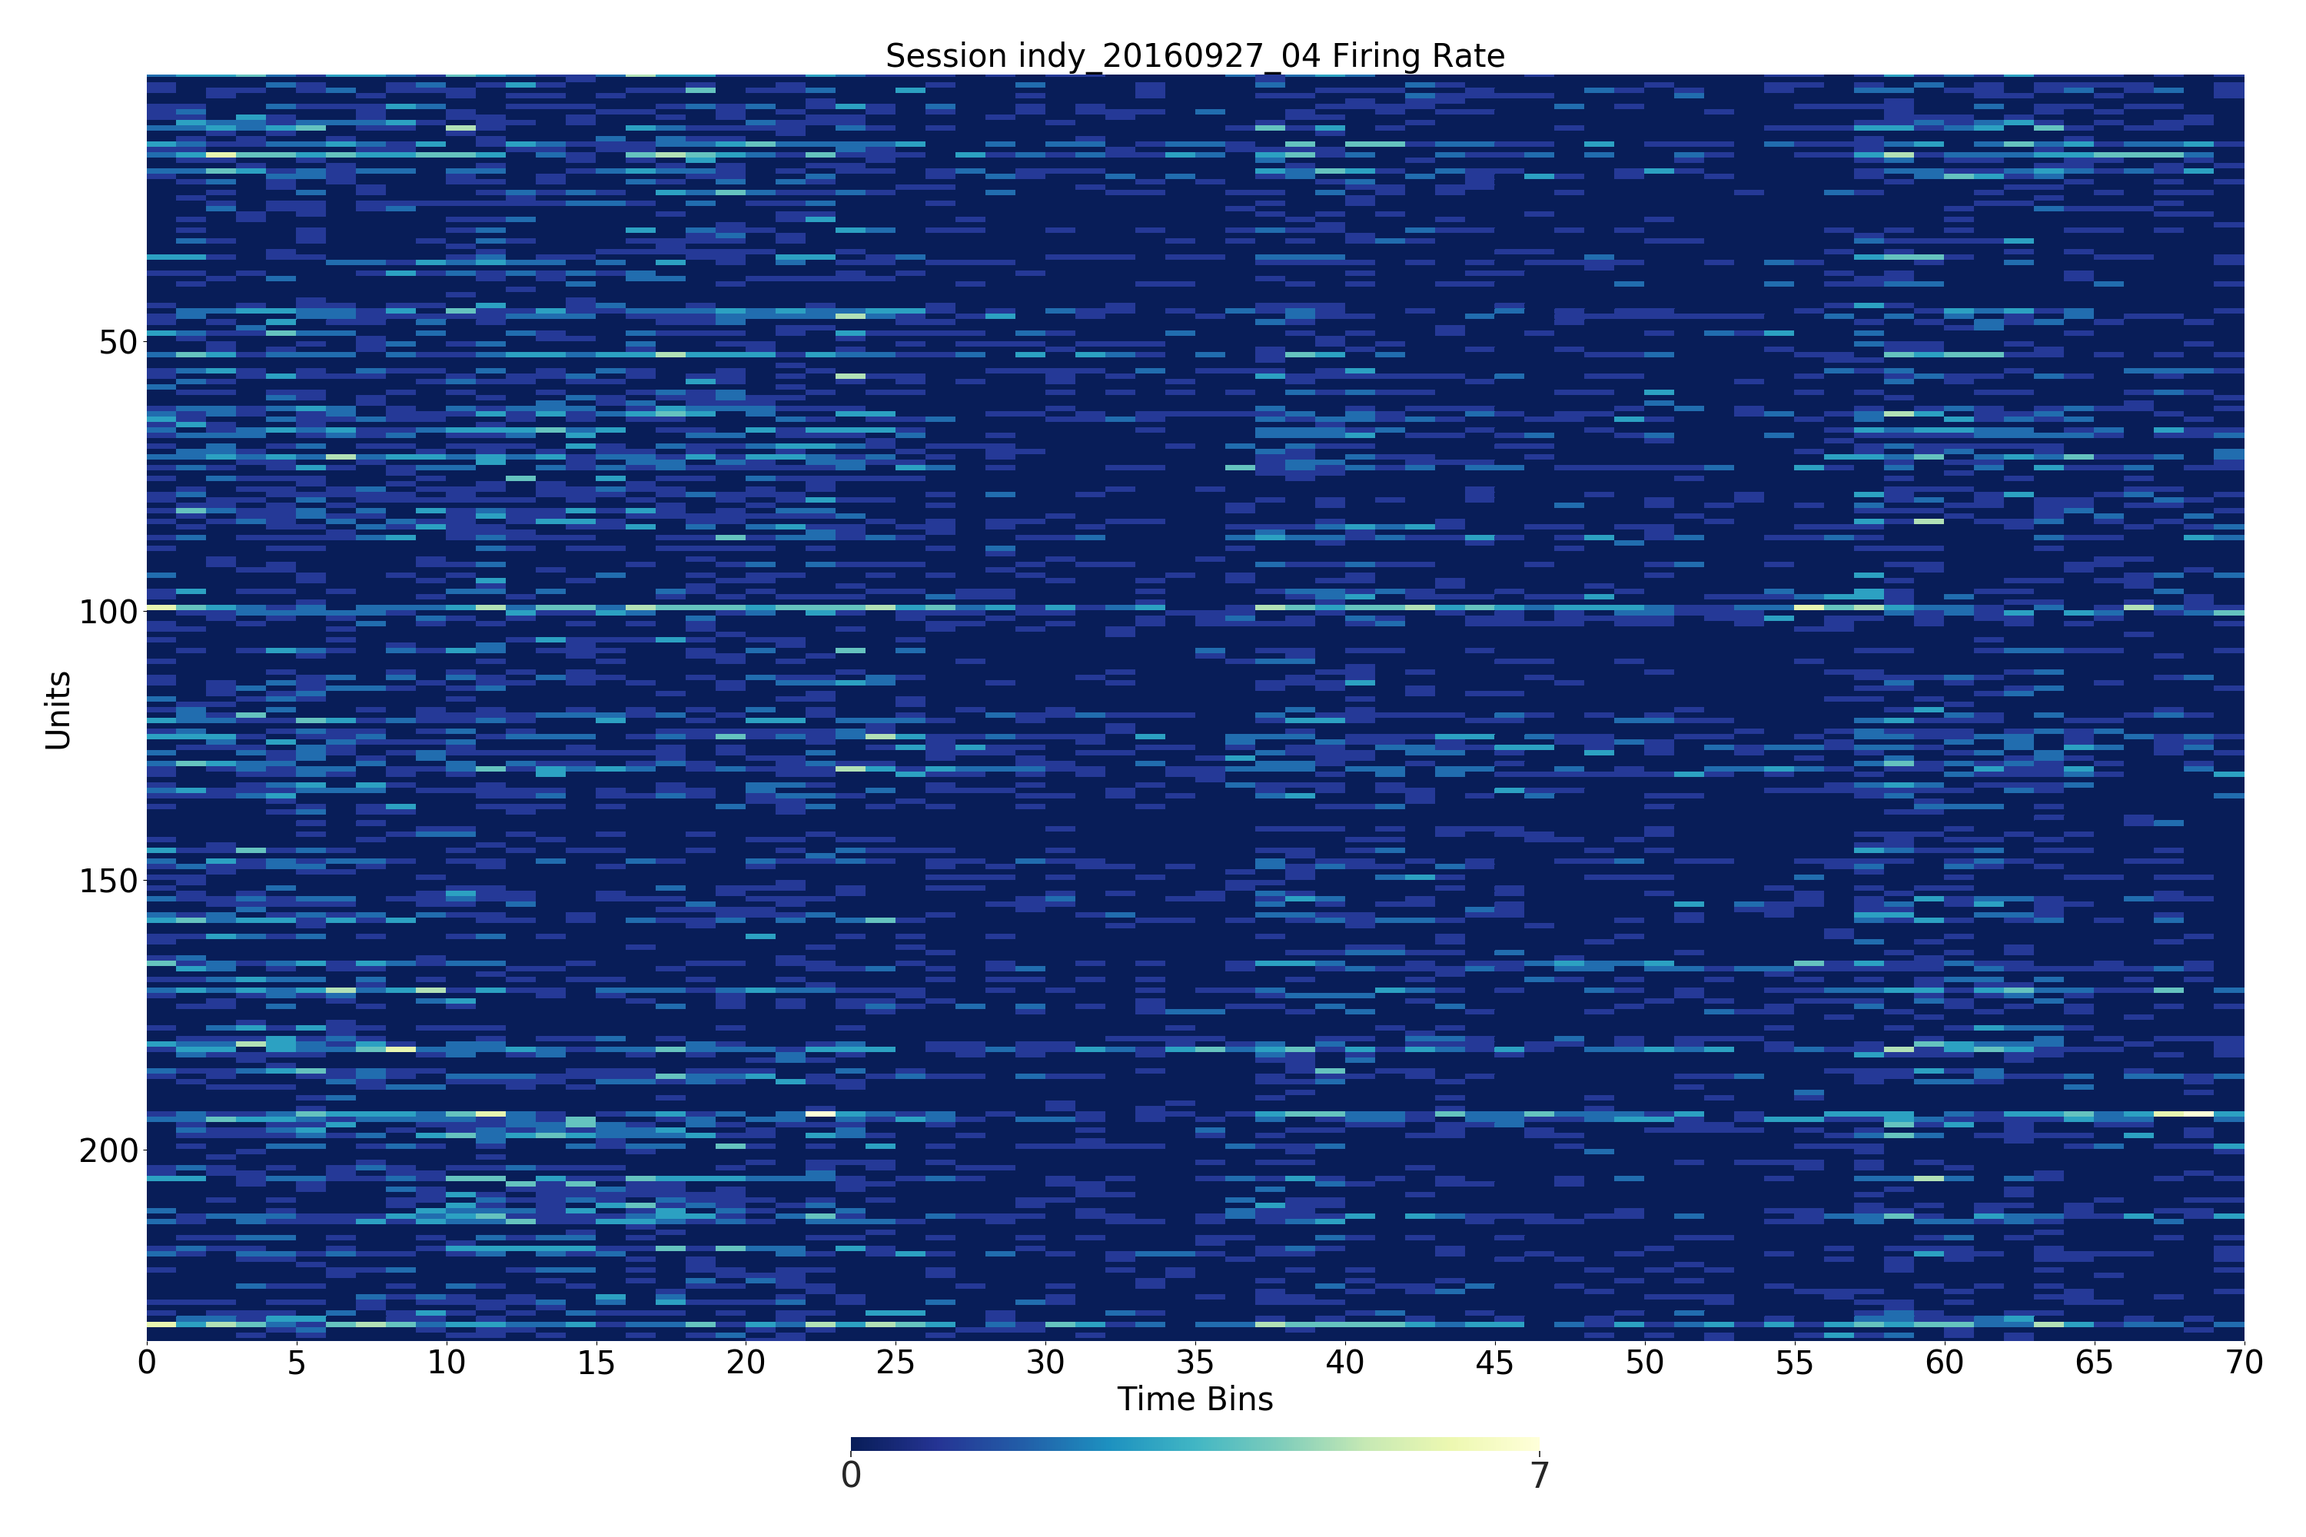
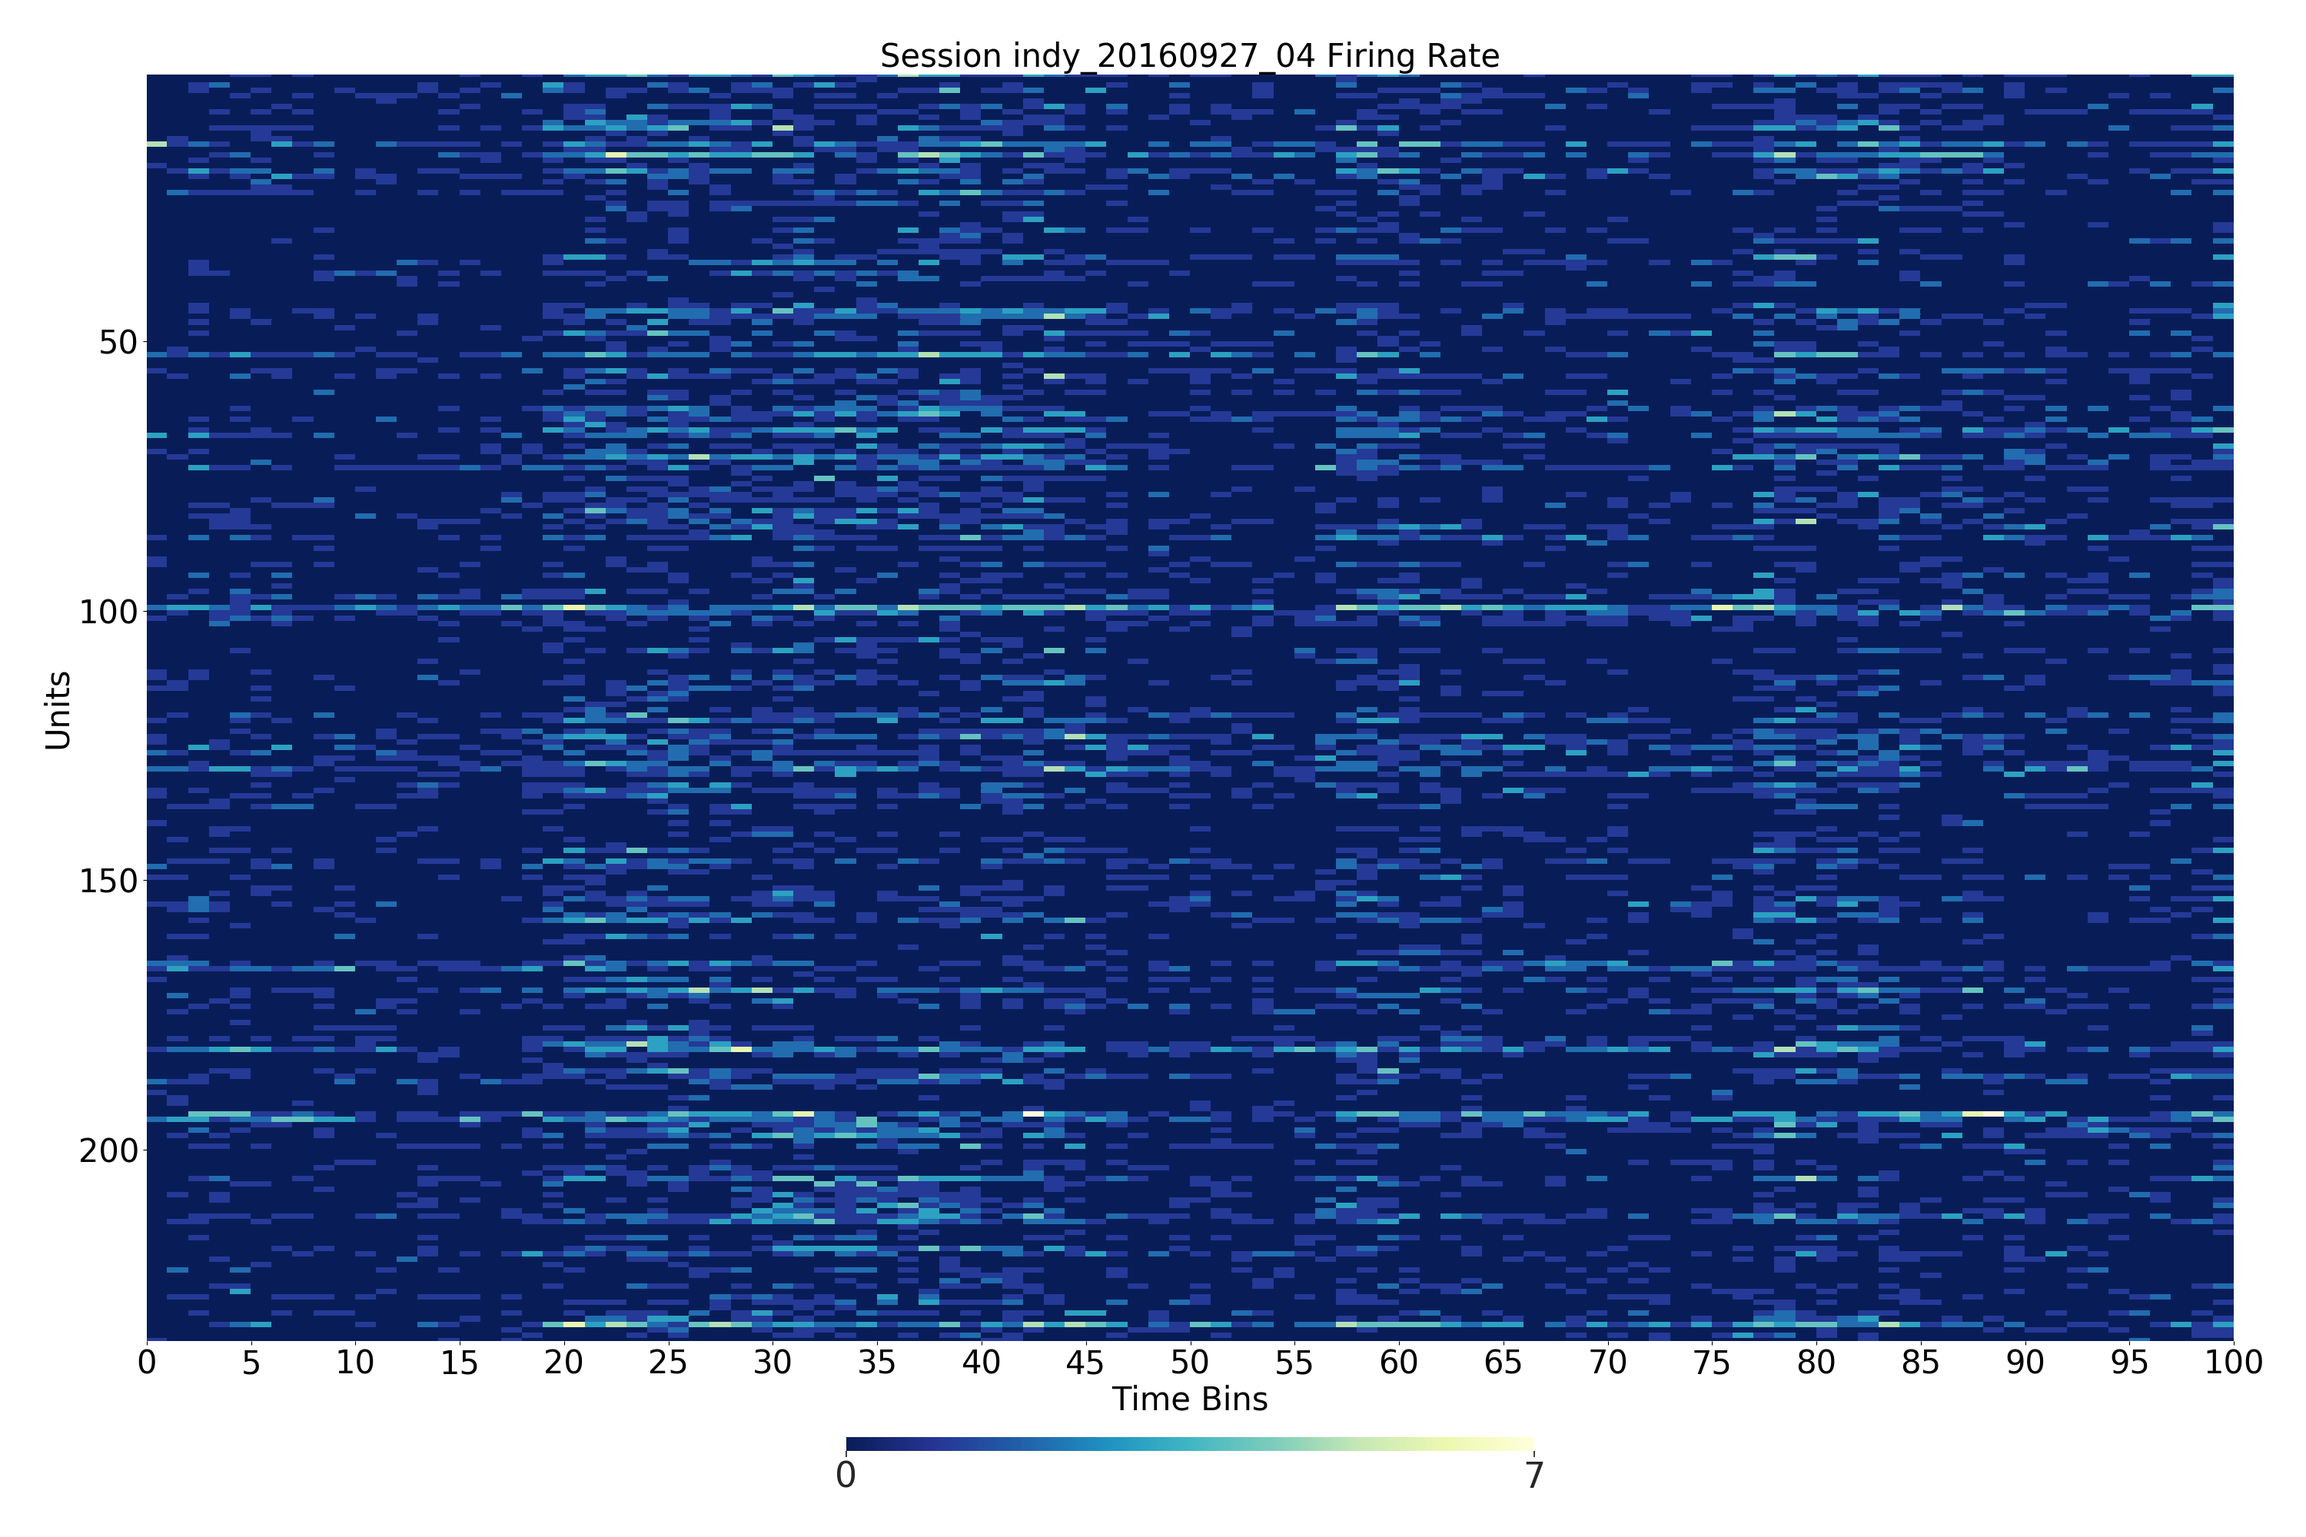
thesis

Changed region(s): [[0.062, 0.031, 0.992, 0.93]]

diff --git a/Python_code/Pytorch/layer_norm_illustration.py b/Python_code/Pytorch/layer_norm_illustration.py
@@ -1,0 +1,184 @@
+# https://medium.com/@omkar.nallagoni/activation-functions-with-derivative-and-python-code-sigmoid-vs-tanh-vs-relu-44d23915c1f4
+
+import torch
+from torch.autograd import Variable
+import torch.nn.functional as F
+import torch.utils.data as Data
+from torch.utils.data import Dataset, DataLoader
+# Figures
+import imageio
+import matplotlib.pyplot as plot
+import matplotlib.pyplot as plt
+import matplotlib.ticker as ticker
+from matplotlib import rc
+# rc('font',**{'family':'sans-serif','sans-serif':['Helvetica']})
+## for Palatino and other serif fonts use:
+#rc('font',**{'family':'serif','serif':['Palatino']})
+# rc('text', usetex=True)
+
+
+# Data Processing
+import pandas as pd
+import json
+import math
+import numpy as np
+from numpy import linalg as LA
+import h5py
+from tqdm import tqdm_notebook as tqdm
+from tqdm import trange
+from sklearn import datasets, svm, metrics
+# Regression Problem Evaluation Methods
+from sklearn.metrics import mean_squared_error, r2_score
+from scipy.stats import pearsonr
+# Read/Write file
+import os
+import shutil
+
+CWD_origin=os.getcwd()
+
+layer_norm_illustration = os.path.join(CWD_origin, 'layer_norm_illustration')
+if not os.path.exists(layer_norm_illustration):
+    os.mkdir(layer_norm_illustration)
+
+
+import seaborn as sns
+
+my_fontsize = 30
+my_width = 16
+my_height = 9
+
+def sigmoid(x):
+    s=1/(1+np.exp(-x))
+    ds=s*(1-s)  
+    return s,ds
+
+def tanh(x):
+    t=(np.exp(x)-np.exp(-x))/(np.exp(x)+np.exp(-x))
+    dt=1-t**2
+    return t,dt
+
+
+
+z=np.arange(-6,6,0.01)
+tanh(z)[0].size,tanh(z)[1].size
+sigmoid(z)
+
+# Setup centered axes
+fig, ax = plt.subplots(figsize=(my_width, my_height))
+my_fontsize = 30
+plt.rcParams['xtick.labelsize'] = my_fontsize
+plt.rcParams['ytick.labelsize'] = my_fontsize
+ax.set_xticks([-6,-4,-2,0,2,4,6])
+ax.set_yticks([-1,1])
+
+ax.spines['left'].set_position('center')
+ax.spines['bottom'].set_position('center')
+ax.spines['right'].set_color('none')
+ax.spines['top'].set_color('none')
+ax.xaxis.set_ticks_position('bottom')
+ax.yaxis.set_ticks_position('left')
+
+# Create and show plot
+ax.plot(z,tanh(z)[0], color='blue', linewidth=3, label="tanh(x)")
+# ax.plot(z,tanh(z)[1], color="#9621E2", linewidth=3, label="derivative")
+
+ax.plot(z,sigmoid(z)[0], color='green', linewidth=3, label="sigmoid(x)")
+# ax.plot(z,sigmoid(z)[1], color="#9621E2", linewidth=3, label="derivative")
+
+ax.legend(loc="upper left", frameon=True, fontsize=my_fontsize)
+
+
+plt.tight_layout()
+plt.savefig(layer_norm_illustration+'/'+'sigmoid_and_tanh.png')
+
+plt.cla()
+plt.clf()
+fig.clear()
+
+
+# Setup centered axes
+fig, ax = plt.subplots(figsize=(my_width, my_height))
+
+plt.rcParams['xtick.labelsize'] = my_fontsize
+plt.rcParams['ytick.labelsize'] = my_fontsize
+ax.set_xticks([-6,-4,-2,0,2,4,6])
+ax.set_yticks([1])
+ax.set_ylim([0,1.1])
+
+ax.spines['left'].set_position('center')
+# ax.spines['bottom'].set_position('center')
+ax.spines['right'].set_color('none')
+ax.spines['top'].set_color('none')
+ax.xaxis.set_ticks_position('bottom')
+ax.yaxis.set_ticks_position('left')
+
+# Create and show plot
+
+ax.plot(z,tanh(z)[1], color="blue", linewidth=3, label=r'$\frac{d}{dx}$ tanh(x)')
+
+ax.plot(z,sigmoid(z)[1], color="green", linewidth=3, label=r'$\frac{d}{dx}$ sigmoid(x)')
+
+ax.legend(loc="upper left", frameon=True, fontsize=my_fontsize)
+
+
+
+plt.tight_layout()
+plt.savefig(layer_norm_illustration+'/'+'derivative_sigmoid_and_tanh.png')
+
+
+plt.cla()
+plt.clf()
+fig.clear()
+
+
+# torch.normal( mean, std, [size] )
+input_1 = torch.normal( 7, 1, [1,256] )
+input_2 = torch.normal( 0, 10, [1,256])
+
+m_1 = torch.nn.LayerNorm(input_1.size(), elementwise_affine=False)
+m_2 = torch.nn.LayerNorm(input_2.size(), elementwise_affine=False)
+
+output_1 = m_1(input_1)
+output_2 = m_2(input_2)
+
+input_1=input_1.numpy()
+output_1=output_1.numpy()
+input_2=input_2.numpy()
+output_2=output_2.numpy()
+
+bins = [i for i in np.arange( -10, 10, 0.2 )]
+
+fig=plt.figure(figsize=(my_width,my_height))
+plt.rcParams['xtick.labelsize'] = my_fontsize
+plt.rcParams['ytick.labelsize'] = my_fontsize
+plt.hist(input_1[0,:], bins=bins, color='blue', alpha=0.5, label='Mean:7, STD:1')
+plt.hist(input_2[0,:], bins=bins, color='green', alpha=0.5,label='Mean:0, STD:10')
+
+plt.xlabel('x-axis', fontsize=my_fontsize)
+plt.xticks([-10,-8,-6,-4,-2,0,2,4,6,8,10])
+plt.yticks([])
+plt.legend(loc="upper left", frameon=True, fontsize=my_fontsize)
+plt.tight_layout()
+plt.savefig( layer_norm_illustration+'/'+ 'activation_histogram_before.png')
+
+
+plt.cla()
+plt.clf()
+fig.clear()
+
+fig=plt.figure(figsize=(my_width,my_height))
+plt.rcParams['xtick.labelsize'] = my_fontsize
+plt.rcParams['ytick.labelsize'] = my_fontsize
+plt.hist(output_1[0,:], bins=bins, color='blue', alpha=0.5, label='Mean: 0, STD: 1')
+plt.hist(output_2[0,:], bins=bins, color='green', alpha=0.5,label='Mean: 0, STD: 1')
+
+plt.xlabel('x-axis', fontsize=my_fontsize)
+plt.xticks([-10,-8,-6,-4,-2,0,2,4,6,8,10])
+plt.yticks([])
+plt.legend(loc="upper left", frameon=True, fontsize=my_fontsize)
+plt.tight_layout()
+plt.savefig( layer_norm_illustration+'/'+ 'activation_histogram_after.png')
+
+plt.cla()
+plt.clf()
+fig.clear()

diff --git a/Python_code/Pytorch/Plotting_Firing_Rate_Heatmap.py b/Python_code/Pytorch/Plotting_Firing_Rate_Heatmap.py
@@ -308,7 +308,7 @@ testing_y_6 = testing_y_6.float()
 shutil.rmtree(Firing_Rate_Visualization)
 
 # Start plotting
-reduce_time_bin = 70
+reduce_time_bin = 50
 my_fontsize = 30
 my_plot_width = 30
 my_plot_height = 20
@@ -332,7 +332,7 @@ plt.figure(figsize=(my_plot_width, my_plot_height))
 plt.title( 'Session ' + session_name + ' Firing Rate', fontsize=30, color="black")
 # plt.title('test')
 sns.set(font_scale=3)
-data = torch.transpose( testing_x[reduce_time_bin:reduce_time_bin*2,:], 0, 1)
+data = torch.transpose( testing_x[reduce_time_bin:reduce_time_bin*3,:], 0, 1)
 
 # Eliminate empty units
 valid_rows=[]
@@ -372,13 +372,12 @@ plt.close()
 
 plt.title( 'Session ' + session_name + ' Firing Rate', fontsize=30, color="black")
 sns.set(font_scale=3)
-
 f ,ax = plt.subplots(4,1, gridspec_kw={'height_ratios': [12, 1, 1, 1],  "hspace":0.2 ,"left":0.1, "right":0.9, "top":0.95, "bottom":0.05}, constrained_layout=True , figsize=(my_plot_width, my_plot_height*1.2))
 
-cbar_kws={"orientation": "horizontal", "shrink": 0.5, "aspect":50,"use_gridspec":"True", "fraction":0.01 , "pad":0.03, 'ticks' : [ torch.min(data), 4 ]}
+cbar_kws={"orientation": "horizontal", "shrink": 0.2, "aspect":20,"use_gridspec":"True", "fraction":0.01 , "pad":0.03, 'ticks' : [ torch.min(data), 4 ]}
 sns.heatmap( data=data, vmax=4 ,xticklabels=False, yticklabels=True, cbar_kws=cbar_kws, cmap='YlGnBu_r', ax=ax[0]) # important, not ax[0] = sns.heatmap(...)
 # ax[0].set_xticklabels(ax[0].get_xmajorticklabels(), fontsize = my_fontsize, rotation=0)
-ax[0].set_title('Firing Rate from Session '+ session_name, fontsize=my_fontsize)
+ax[0].set_title('Firing rate from session '+ session_name, fontsize=my_fontsize)
 ax[0].set_yticklabels(ax[0].get_ymajorticklabels(), fontsize = my_fontsize, rotation=0)
 
 # ax[0].xaxis.set_major_locator(ticker.MultipleLocator(5))
@@ -393,32 +392,32 @@ ax[0].set_ylabel('Units', fontsize=my_fontsize, color="black")
 
 
 ax[1].set_title('Position', fontsize=my_fontsize)
-ax[1].plot( testing_y_1[reduce_time_bin:reduce_time_bin*2], 'b', linewidth=3, label='x-axis', alpha=0.8 )
-ax[1].plot( testing_y_2[reduce_time_bin:reduce_time_bin*2], 'g', linewidth=3, label='y-axis', alpha=0.8 )
+ax[1].plot( testing_y_1[reduce_time_bin:reduce_time_bin*3], 'b', linewidth=3, label='x-axis', alpha=0.8 )
+ax[1].plot( testing_y_2[reduce_time_bin:reduce_time_bin*3], 'g', linewidth=3, label='y-axis', alpha=0.8 )
 ax[1].set_ylabel('mm', fontsize=my_fontsize, rotation=90)
 ax[1].get_xaxis().set_ticks([])
 ax[1].legend(loc='upper right', fontsize=my_fontsize*0.5)
-ax[1].set_xlim([ 0, len( testing_y_2[reduce_time_bin:reduce_time_bin*2] ) ])
+ax[1].set_xlim([ 0, len( testing_y_2[reduce_time_bin:reduce_time_bin*3] ) ])
 
 
 ax[2].set_title('Velocity', fontsize=my_fontsize)
-ax[2].plot( testing_y_3[reduce_time_bin:reduce_time_bin*2], 'b', linewidth=3, label='x-axis', alpha=0.8 )
-ax[2].plot( testing_y_4[reduce_time_bin:reduce_time_bin*2], 'g', linewidth=3, label='y-axis', alpha=0.8 )
+ax[2].plot( testing_y_3[reduce_time_bin:reduce_time_bin*3], 'b', linewidth=3, label='x-axis', alpha=0.8 )
+ax[2].plot( testing_y_4[reduce_time_bin:reduce_time_bin*3], 'g', linewidth=3, label='y-axis', alpha=0.8 )
 ax[2].set_ylabel('mm/s', fontsize=my_fontsize, rotation=90)
 ax[2].get_xaxis().set_ticks([])
 ax[2].legend(loc='upper right', fontsize=my_fontsize*0.5)
-ax[2].set_xlim([ 0, len( testing_y_4[reduce_time_bin:reduce_time_bin*2] ) ])
+ax[2].set_xlim([ 0, len( testing_y_4[reduce_time_bin:reduce_time_bin*3] ) ])
 
 
 
 ax[3].set_title('Acceleration', fontsize=my_fontsize)
-ax[3].plot( testing_y_5[reduce_time_bin:reduce_time_bin*2], 'b', linewidth=3, label='x-axis', alpha=0.8 )
-ax[3].plot( testing_y_6[reduce_time_bin:reduce_time_bin*2], 'g', linewidth=3, label='y-axis', alpha=0.8 )
+ax[3].plot( testing_y_5[reduce_time_bin:reduce_time_bin*3], 'b', linewidth=3, label='x-axis', alpha=0.8 )
+ax[3].plot( testing_y_6[reduce_time_bin:reduce_time_bin*3], 'g', linewidth=3, label='y-axis', alpha=0.8 )
 ax[3].set_ylabel( 'mm/s^2', fontsize=my_fontsize, rotation=90)
 # ax[3].get_xaxis().set_ticks([])
 ax[3].set_xlabel('Time Bins', fontsize=my_fontsize)
 ax[3].legend(loc='upper right', fontsize=my_fontsize*0.5)
-ax[3].set_xlim([ 0, len( testing_y_6[reduce_time_bin:reduce_time_bin*2] ) ])
+ax[3].set_xlim([ 0, len( testing_y_6[reduce_time_bin:reduce_time_bin*3] ) ])
 
 
 

diff --git a/Thesis_Wu/Materials_and_Methods.tex b/Thesis_Wu/Materials_and_Methods.tex
@@ -294,19 +294,26 @@ Notation $\circ$ means elementwise multiplication for two tensors of same shape.
 Operator $\sigma$ is the sigmoid function (Equation \ref{eq:sigmoid}), which squashes the input value from ($-\infty$, $\infty$) to (0,1).
 $\phi$ is the hyperbolic tangent (tanh) function (Equation \ref{eq:tanh}), squashing the input value from ($-\infty$, $\infty$) to (-1,1).
 Two functions plotted in Figure \ref{fig:sigmoid_and_tanh}.
-However, both of them have drawbacks of saturation problem, e.g., input value outside the range [-4, +4] will be nearly 0 after activations, 
+However, both of them have drawbacks of saturation problem, e.g., the derivative of input value outside the range [-4, +4] will be nearly 0 after activations, 
 making its gradient vanish and slowing down learninig process.
 The solution about this issue will be addressed in Section~\ref{sec:layer_norm}.
 
 \begin{figure}[H]
-	\begin{center}
-        \includegraphics[width=0.6\textwidth]{sigmoid_and_tanh.jpg}
-        \captionsetup{width=0.5\textwidth}
-        \caption{Sigmoid and hyperbolic tangent}
+    \begin{center}
+        \begin{subfigure}{0.48\textwidth}
+            \includegraphics[width=1\textwidth]{sigmoid_and_tanh.png}
+            \captionsetup{width=1\textwidth}
+            \caption{Sigmoid and hyperbolic tangent}
+        \end{subfigure}
+        \begin{subfigure}{0.48\textwidth}
+            \includegraphics[width=1\textwidth]{derivative_sigmoid_and_tanh.png}
+            \captionsetup{width=1\textwidth}
+            \caption{First derivative of sigmoid and hyperbolic tangent}
+        \end{subfigure}
+        \caption{Activation functions}
         \label{fig:sigmoid_and_tanh}
-	\end{center}	
+	\end{center}
 \end{figure}
-
 
 At each timestep, a single GRU cell can take in two tensors, one is the current input tensor $x_t$ and another is the previous hidden state $h_{t-1}$, which is the output from last timestep.
 In the process of calculating each gate value (Equation \ref{eq:reset_gate}, \ref{eq:update_gate}) and $\hat{h_t}$ (Equation \ref{eq:h_hat}),
@@ -441,6 +448,30 @@ When implementing it on GRU,
 \end{align}
 
 \noindent where $\alpha_i$ and $\beta_i$ are initialized as vector of zeros and ones, respectively.
+
+The affect of the layer normalization is illustrated in Figure~\ref{fig:layer_norm_before_after},
+whicih we simulate two extreme cases of hidden state distributions.
+First one has a dense distribution but the mean is deviated from zero, making most of its values above $+4$, and will be mapped approximately to zero no matter in both activation.
+The second case has the mean of zero, but its wild distribution makes only a portion of its elements have gradient other than zero, after activations.
+
+
+\begin{figure}[H]
+    \begin{center}
+        \begin{subfigure}{0.48\textwidth}
+            \captionsetup{width=1\textwidth}
+            \includegraphics[width=1\textwidth]{activation_histogram_before.png}
+            \caption{Before LN}
+        \end{subfigure}
+        \begin{subfigure}{0.48\textwidth}
+            \captionsetup{width=1\textwidth}
+            \includegraphics[width=1\textwidth]{activation_histogram_after.png}
+            \caption{After LN}
+        \end{subfigure}
+        \captionsetup{width=0.5\textwidth}
+        \caption{LN comparison}
+        \label{fig:layer_norm_before_after}
+    \end{center}
+\end{figure}
 
 \subsection{Attention Mechanism}
 \cite{lin2017structured} proposed a concise but effective attention mechanism.
